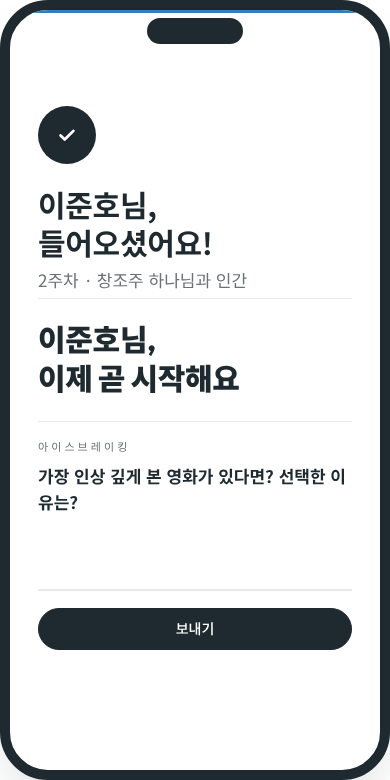
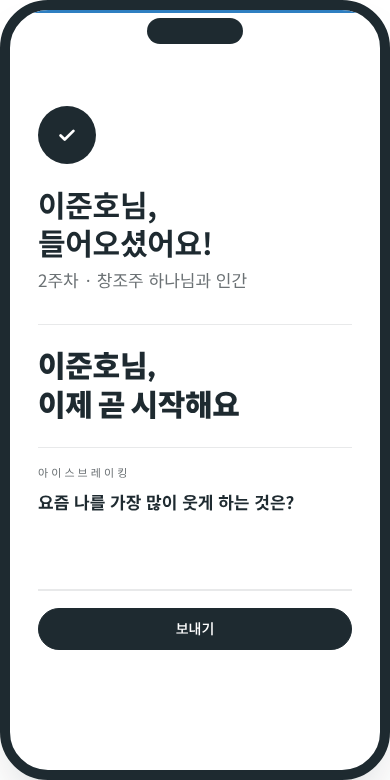
Phone: plain light divider instead of black dashes after the meeting
Claude-Session: https://claude.ai/code/session_01HiA1GonWmcVJgnFShP9VMN

Changed region(s): [[0.0923, 0.4, 0.8923, 0.6769]]

diff --git a/demo/index.html b/demo/index.html
@@ -379,6 +379,7 @@ input[data-act="funote"]:focus,input[data-act="bdayNote"]:focus{outline:none;bor
 .donehead:has(+ .live.started)+.live{margin-top:0;border-top:0;padding-top:0}
 .prlbl{display:flex;align-items:center;gap:8px;font-size:15px;font-weight:500}
 .prsaved{min-height:18px;font-size:12px}
+.finline{border:0;border-top:1px solid var(--line);margin:14px 0 4px}
 .praylist{border-left:1px solid var(--line);padding-left:28px;max-height:100%;overflow:auto}
 .praylist h3{margin:0 0 10px}
 .prow{padding:10px 0;border-bottom:1px solid var(--line)}
@@ -1117,7 +1118,7 @@ function liveHTML(w,pid,lidOver){
   const myPr=pp&&pp.weeks[w]&&pp.weeks[w].prayerBy==='self'?pp.weeks[w].prayer:'';
   const prayer=fin?`<div class="pray-f"><label for="pray-${w}" class="prlbl"><svg width="18" height="18" viewBox="0 0 24 24" fill="none" stroke="currentColor" stroke-width="1.8" stroke-linecap="round" stroke-linejoin="round" aria-hidden="true"><path d="M12 20h9"/><path d="M16.5 3.5a2.1 2.1 0 0 1 3 3L7 19l-4 1 1-4Z"/></svg>이번 주 기도제목을 나눠 주세요</label><textarea ${pp?`id="pray-${w}" data-act="prayerType" data-w="${w}" data-pid="${pid}"`:'disabled'} rows="2" aria-label="이번 주 기도제목">${esc(myPr)}</textarea><span class="note prsaved" aria-live="polite">${myPr?'순장님께 전해졌어요':''}</span></div>`:'';
   return `<div class="live started" data-live="${w}" data-pid="${pid||''}"><p class="lbl">${fin?w+'주차를 마쳤어요':'지금 나누는 이야기'}</p><p class="kw"${fin?' style="font-size:28px"':''}>${fin?'함께해 주셔서 감사합니다':esc(kwT)}</p>${!fin&&briefH?`<ul class="brief">${briefH}</ul>`:''}
-   <div class="dots">${t.map((_,j)=>`<i class="${j<c.idx?'on':''} ${j===i&&!fin?'cur':''}"></i>`).join('')}</div>${prayer}${fin?saveBar(w,!!pp):''}</div>`;
+   ${fin?'<hr class="finline">':`<div class="dots">${t.map((_,j)=>`<i class="${j<c.idx?'on':''} ${j===i?'cur':''}"></i>`).join('')}</div>`}${prayer}${fin?saveBar(w,!!pp):''}</div>`;
 }
 
 /* ================= 저장 · 보내기 (새가족이 이번 주 내용을 간직하기) ================= */

diff --git a/site/app/index.html b/site/app/index.html
@@ -384,6 +384,7 @@ input[data-act="funote"]:focus,input[data-act="bdayNote"]:focus{outline:none;bor
 .donehead:has(+ .live.started)+.live{margin-top:0;border-top:0;padding-top:0}
 .prlbl{display:flex;align-items:center;gap:8px;font-size:15px;font-weight:500}
 .prsaved{min-height:18px;font-size:12px}
+.finline{border:0;border-top:1px solid var(--line);margin:14px 0 4px}
 .praylist{border-left:1px solid var(--line);padding-left:28px;max-height:100%;overflow:auto}
 .praylist h3{margin:0 0 10px}
 .prow{padding:10px 0;border-bottom:1px solid var(--line)}
@@ -1125,7 +1126,7 @@ function liveHTML(w,pid,lidOver){
   const myPr=pp&&pp.weeks[w]&&pp.weeks[w].prayerBy==='self'?pp.weeks[w].prayer:'';
   const prayer=fin?`<div class="pray-f"><label for="pray-${w}" class="prlbl"><svg width="18" height="18" viewBox="0 0 24 24" fill="none" stroke="currentColor" stroke-width="1.8" stroke-linecap="round" stroke-linejoin="round" aria-hidden="true"><path d="M12 20h9"/><path d="M16.5 3.5a2.1 2.1 0 0 1 3 3L7 19l-4 1 1-4Z"/></svg>이번 주 기도제목을 나눠 주세요</label><textarea ${pp?`id="pray-${w}" data-act="prayerType" data-w="${w}" data-pid="${pid}"`:'disabled'} rows="2" aria-label="이번 주 기도제목">${esc(myPr)}</textarea><span class="note prsaved" aria-live="polite">${myPr?'순장님께 전해졌어요':''}</span></div>`:'';
   return `<div class="live started" data-live="${w}" data-pid="${pid||''}"><p class="lbl">${fin?w+'주차를 마쳤어요':'지금 나누는 이야기'}</p><p class="kw"${fin?' style="font-size:28px"':''}>${fin?'함께해 주셔서 감사합니다':esc(kwT)}</p>${!fin&&briefH?`<ul class="brief">${briefH}</ul>`:''}
-   <div class="dots">${t.map((_,j)=>`<i class="${j<c.idx?'on':''} ${j===i&&!fin?'cur':''}"></i>`).join('')}</div>${prayer}${fin?saveBar(w,!!pp):''}</div>`;
+   ${fin?'<hr class="finline">':`<div class="dots">${t.map((_,j)=>`<i class="${j<c.idx?'on':''} ${j===i?'cur':''}"></i>`).join('')}</div>`}${prayer}${fin?saveBar(w,!!pp):''}</div>`;
 }
 
 /* ================= 저장 · 보내기 (새가족이 이번 주 내용을 간직하기) ================= */
